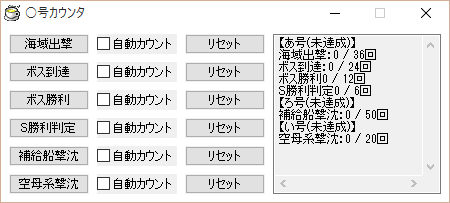
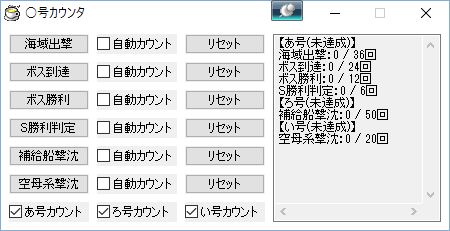
Readme修正終了

Changed region(s): [[0.0, 0.0, 1.0, 1.0], [0.9333, 0.798, 0.9644, 0.8571], [0.7156, 0.0591, 0.7467, 0.0887]]

diff --git a/help/index.html b/help/index.html
@@ -218,7 +218,9 @@
 			<a href="http://amalabo.blog35.fc2.com/blog-entry-242.html">http://amalabo.blog35.fc2.com/blog-entry-242.html</a></div><br>
 			<p><a href="#howto">↑操作方法へ戻る</a></p>
 		<h2><a name="showmode">表示モード</a></h2>
-			<p>　2段目のコンボボックスから、<a href="#sub_window">サブ画面</a>にどのシーンを表示するかを選択できます。以下に一覧を示します。</p>
+			<p>　2段目のコンボボックスから、<a href="#sub_window">サブ画面</a>にどのシーンを表示するかを選択できます。<br>
+			　Ver.3.3.5から、その表示内容をある程度編集できるようになりました。詳しくは<a href="./extra.html">extra.html</a>までどうぞ。<br>
+			　以下に、標準で表示される一覧を示します。</p>
 			<table border="1" summary="表示モードの説明。主に現在画面・母港画面・戦果報告・編成画面・改装画面・戦闘画面が使われると思われます">
 				<tr>
 					<th abbr="表示モード">表示モード</th>
@@ -443,8 +445,10 @@
 
 			<h3><a name="x_counter">○号カウンター</a></h3>
 			<p>　各ボタンでカウント、リセットボタンで0回にリセットされます。カウントはちゃんと<a href="#save_data">セーブ</a>されるのでご心配なく。<br>
-			　自動カウントをONにすると、<span class="underline">画像を読み取って自動でカウントしてくれます</span>。</p>
-			<img src="./images/counter.png" alt="○号カウンター" width="450" height="203">
+			　自動カウントをONにすると、<span class="underline">画像を読み取って自動でカウントしてくれます</span>。<br>
+			　Ver.3.3.5から、一番下の行にあ号カウント～ろ号カウント機能が付きました。<br>
+			任務画面で任務をチェックしていると(<a href="#task_list">任務一覧</a>で表示されていると)、<strong>その任務に応じたカウントが自動で行われます。</strong></p>
+			<img src="./images/counter.png" alt="○号カウンター" width="450" height="231">
 
 			<h3><a name="cond_meter">cond値メータ</a></h3>
 			<p>　cond値の計算を支援するためのツールです。一回戦闘したら、交戦形態の列のボタン→戦闘結果のボタン→MVPのボタンを押せば、変化が反映されます。<br>
@@ -771,7 +775,9 @@
 			<tr>
 				<td>艦隊情報画面で読み取りミスが有るのですが？</td>
 				<td>Ver.3.3.2時点では、艦載機熟練度だけでなく装備改修度にも対応しています。<br>
-				艦娘・装備の判定ミスも全部潰したはずですが、もしありましたらスレかTwitterまで連絡ください。</td>
+				艦娘・装備の判定ミスも全部潰したはずですが、もしありましたらスレかTwitterまで連絡ください。<br>
+				<strong>なお、Ver.3.3.5時点では、『零式艦戦32型(熟練)』および『16inch三連装砲 Mk.7+GFCS』には対応していません。<br>
+				装備をお持ちの方はぜひ、当方までご連絡下さい(改装画面で装備させたスクショを下さい)。</strong></td>
 			</tr>
 			<tr>
 				<td>このソフトは利用規約に触れませんか？</td>
@@ -933,6 +939,18 @@
 				<th abbr="バージョン">バージョン</th>
 				<th abbr="公開日">公開日</th>
 				<th abbr="変更箇所">変更箇所</th>
+			</tr>
+			<tr>
+				<td>Ver.3.3.5</td>
+				<td>2016/09/03</td>
+				<td>・外蔵ブラウザの表示位置をギリギリまでズラした<br>
+						・マスコット表示で『戦闘モード』のチェック切り替えしたのが、通常表示に反映されてないのを修正<br>
+						・任務が「空」だった際、任務一覧も空になるようにするように修正<br>
+						<strong>・あ・ろ・い号を、『任務チェックしている際は』自動でカウントするように、○号カウンタを進化させた</strong><br>
+						<strong>・コンボボックスにおける『表示したいシーン一覧』を、ある程度は編集できるようにした(>>567さんの意見)</strong><br>
+						・艦隊情報画面で、練度部分における「5」の認識がおかしいのを修正した<br>
+						・艦娘・装備データをなるべく更新させた。足りない項目は以下の通り<br>
+						　零式艦戦32型(熟練)・16inch三連装砲 Mk.7+GFCS・Re.2001 G改</td>
 			</tr>
 			<tr>
 				<td>Ver.3.3.4</td>

diff --git a/help/extra.html b/help/extra.html
@@ -1,0 +1,40 @@
+<!DOCTYPE HTML PUBLIC "-//W3C//DTD HTML 4.01 Transitional//EN">
+<html lang="ja">
+	<head>
+		<meta http-equiv="Content-Type" content="text/html; charset=UTF-8">
+		<meta http-equiv="Content-Style-Type" content="text/css">
+		<link rev="made" href="mailto:ysr.ken@gmail.com">
+		<link rel="index" href="./index.html">
+		<title>おりこうさんな秘書 ヘルプ(追加事項)</title>
+		<style type="text/css">
+			<!-- .underline{text-decoration: underline;}
+			img{border: none;}
+			div{border-style: solid; border-width: 1px; padding: 5px 5px 5px 5px;}-->
+		</style>
+	</head>
+	<body>
+	<h1>表示モードの弄り方教室</h1>
+	<p>　show_scene.csvを編集することによって、<a href="./index.html#showmode">表示モード</a>における表示項目の順序・種類を自在に変更できます。<br>
+	　ただし、編集時には細かな注意事項がありますので、以下の内容にはよく目を通して下さい。</p>
+		<ul>
+			<li><strong>編集によって起きたトラブルについては責任を持ちません。</strong></li>
+			<li>show_scene.csvは、Shift-JIS形式・改行はCR+LFです。</li>
+			<li>『CSVファイル』ですが、項目は""(ダブルクォーテーション)で囲わないようにしてください。</li>
+			<li>各項目ですが、<a href="./all_scene.csv">all_scene.csv</a>の行をコピペしてご利用下さい。</li>
+			<li>次の項目は、様々な機能で用いますので、show_scene.csvに含めることを推奨します。<ul>
+				<li>『編成画面,第１艦隊』～『編成画面,第４艦隊』<br>→艦隊の艦娘数取得機能</li>
+				<li>『改装画面,第１艦隊　１番艦』～『改装画面,第４艦隊　６番艦』<br>→艦隊の艦娘数取得機能、艦隊情報取得機能、艦隊画像保存機能</li>
+				<li>『出撃経過,昼戦画面』と『出撃経過,夜戦画面』<br>→○号カウンタ自動記録機能における輸送船・空母撃沈カウント、「戦闘画面」チェックによる場面切り替え</li>
+				<li>『海域出撃,海域マップ』<br>→○号カウンタ自動記録機能におけるボス到達・ボス勝利カウント</li>
+				<li>『出撃経過,戦闘判定』<br>→○号カウンタ自動記録機能におけるボス勝利・S勝利判定カウント、疲労回復タイマー</li>
+			</ul></li>
+			<li>次の項目については、『連続する項目全てをその順番でコピペ』してください。<ul>
+				<li>『編成画面,第１艦隊』～『編成画面,第４艦隊』</li>
+				<li>『改装画面,第１艦隊　１番艦』～『改装画面,第４艦隊　６番艦』</li>
+			</ul></li>
+			<li>show_scene.csvにコピペした項目は、この順番で<a href="./index.html#main_window">メイン画面</a>のコンボボックスに表示されます。</li>
+			<li>show_scene.csvにコピペした項目は、セーブデータに記憶されます。<br>
+			編集してから初めて起動する際、<strong>編集後にもある項目だけ</strong>バッファ画像・最終更新日時が引き継がれます。</li>
+		</ul>
+	</body>
+</html>
